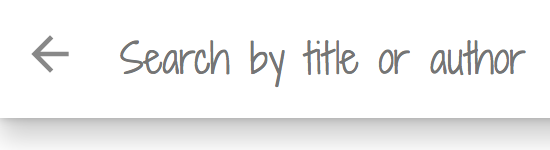
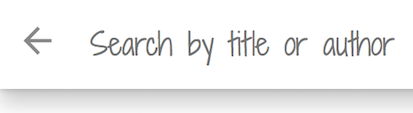
Fix: Image size and location

diff --git a/README.md b/README.md
@@ -29,11 +29,13 @@ Or, if in the Udacity Workspace:
 
 ### Change Shelves
  * Click on ![Change Shelf Icon](src/screenshots/ChangeShelfIcon.png)
- * Click the shelf of choice to move book to selected shelf ![Change Shelf Options Example](src/screenshots/ChangeShelfOptions.png)
+ * Click the shelf of choice to move book to selected shelf
+ ![Change Shelf Options Example](src/screenshots/ChangeShelfOptions.png)
 
 ### Add Books
   * Click on ![Add/Search Book](src/screenshots/Add.png)
-  * Enter text into search field ![Search Bar](src/screenshots/SearchBar.png)
+  * Enter text into search field
+  ![Search Bar](src/screenshots/SearchBar.png)
     * Up to 20 books will show in search
 ![Search Results Example](src/screenshots/SearchResults.png)
   * Follow Change Shelves section (above) to add books to shelves
